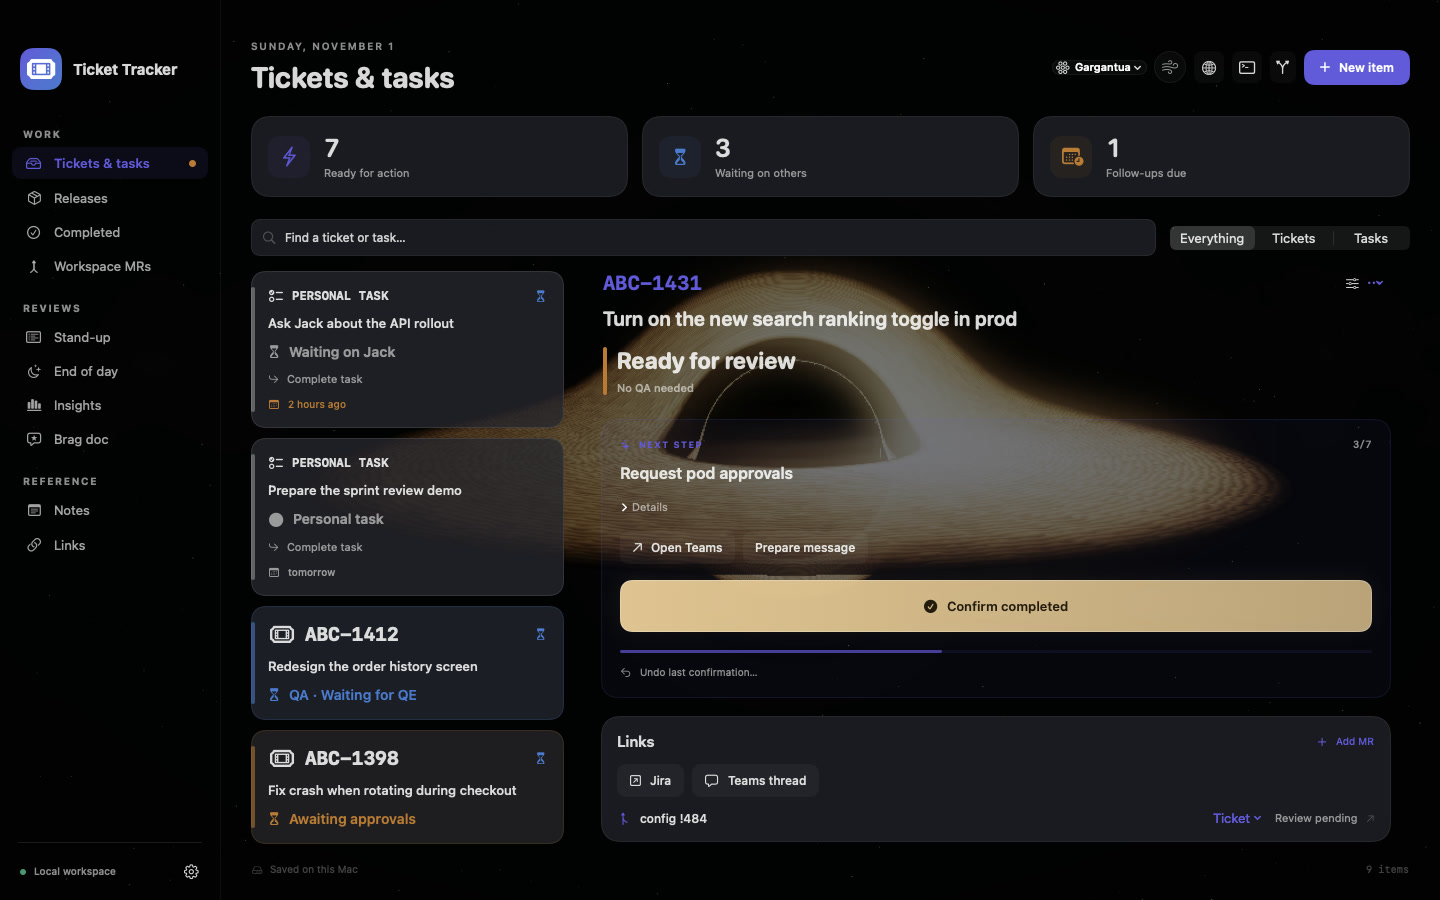
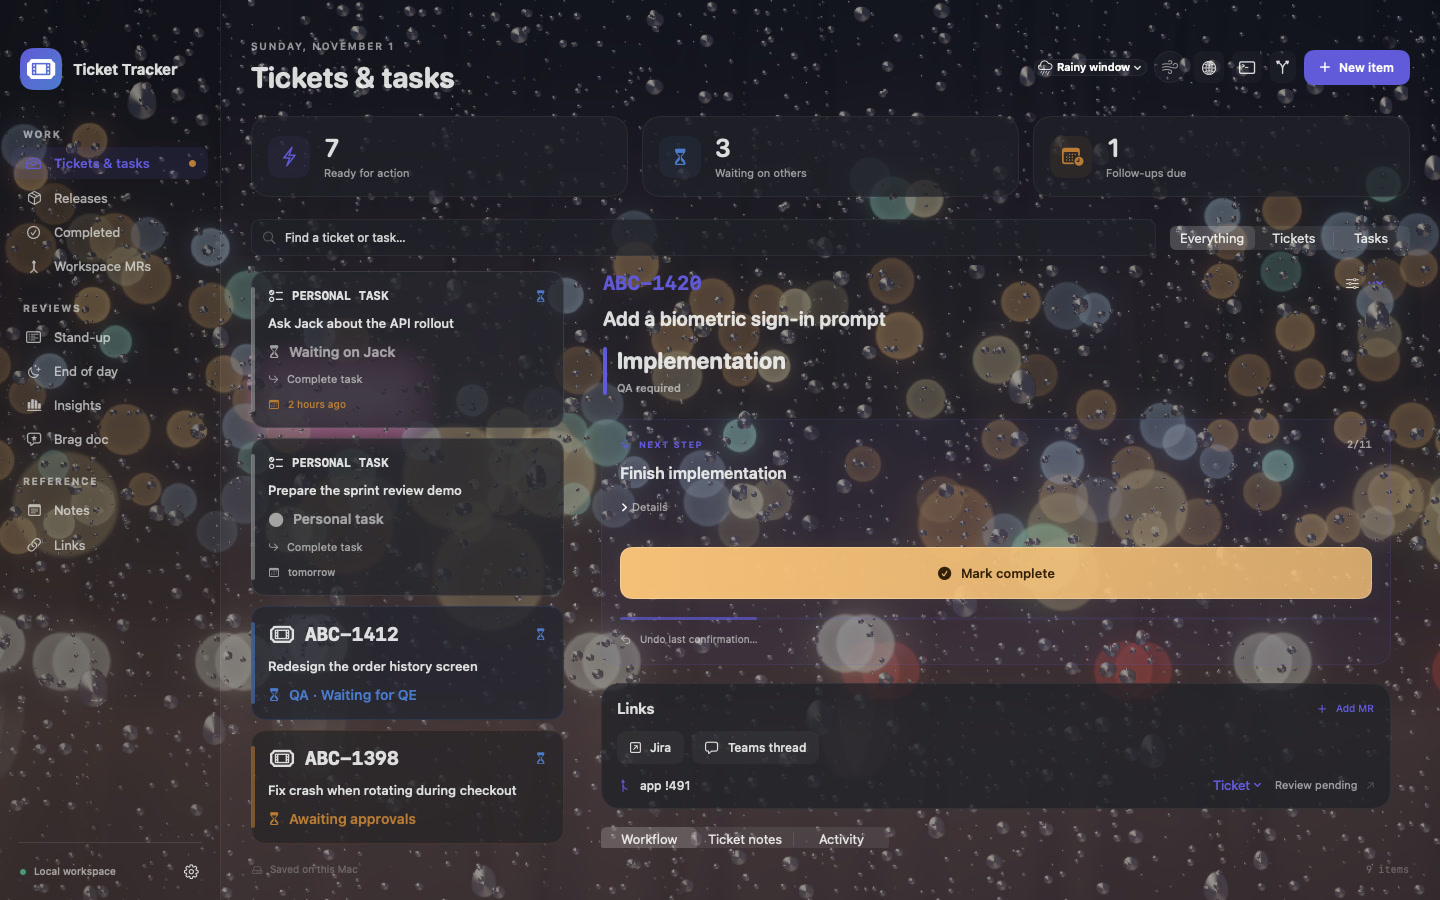
Use Rainy Window theme screenshot for Ticket Tracker main image

diff --git a/src/components/ProjectSection.tsx b/src/components/ProjectSection.tsx
@@ -1,6 +1,6 @@
 import Image from "next/image";
 import styles from "@/styles/Showcase.module.css";
-import React, { FC, useEffect, useState } from "react";
+import React, { FC } from "react";
 import { Project } from "@/data/projects";
 import { ArrowUpRight, Download, Github } from "./Icons";
 
@@ -28,23 +28,11 @@ const ProjectSection: FC<ProjectSectionProps> = ({ project, index, total }) => {
         description,
         techList,
         mainImageURL,
-        mainImages,
         featureList,
         primaryLink,
         githubLink,
         status,
     } = project;
-
-    const slides = mainImages && mainImages.length > 1 ? mainImages : null;
-    const [activeSlide, setActiveSlide] = useState(0);
-
-    useEffect(() => {
-        if (!slides) return;
-        const timer = window.setInterval(() => {
-            setActiveSlide((prev) => (prev + 1) % slides.length);
-        }, 5000);
-        return () => window.clearInterval(timer);
-    }, [slides]);
 
     return (
         <article
@@ -115,40 +103,15 @@ const ProjectSection: FC<ProjectSectionProps> = ({ project, index, total }) => {
                     <span />
                     <p>{frameLabel(project)}</p>
                 </div>
-                {slides ? (
-                    <div className={styles.mainImageStage}>
-                        {slides.map((src, slideIndex) => (
-                            <Image
-                                key={src}
-                                className={`${styles.mainSlide} ${
-                                    slideIndex === 0
-                                        ? styles.mainSlideBase
-                                        : styles.mainSlideOverlay
-                                } ${
-                                    slideIndex === activeSlide
-                                        ? styles.mainSlideActive
-                                        : ""
-                                }`}
-                                src={src}
-                                alt={`${title} screenshot ${slideIndex + 1}`}
-                                width={1600}
-                                height={1000}
-                                sizes="(max-width: 1200px) 100vw, 1150px"
-                                unoptimized={isAnimated(src)}
-                            />
-                        ))}
-                    </div>
-                ) : (
-                    <Image
-                        className={styles.mainImage}
-                        src={mainImageURL}
-                        alt={`${title} screenshot`}
-                        width={1600}
-                        height={1000}
-                        sizes="(max-width: 1200px) 100vw, 1150px"
-                        unoptimized={isAnimated(mainImageURL)}
-                    />
-                )}
+                <Image
+                    className={styles.mainImage}
+                    src={mainImageURL}
+                    alt={`${title} screenshot`}
+                    width={1600}
+                    height={1000}
+                    sizes="(max-width: 1200px) 100vw, 1150px"
+                    unoptimized={isAnimated(mainImageURL)}
+                />
             </figure>
 
             {featureList.length > 0 && (

diff --git a/src/data/projects.ts b/src/data/projects.ts
@@ -19,8 +19,6 @@ export interface Project {
     tileURL: string;
     // image (or gif) shown in the project's case study
     mainImageURL: string;
-    // optional list of images to auto-cycle through in the case study hero frame
-    mainImages?: string[];
     featureList: ProjectFeature[];
     primaryLink?: { label: string; href: string; external: boolean };
     githubLink: string;
@@ -152,14 +150,6 @@ export const projects: Project[] = [
         ],
         tileURL: "/images/ticket-tracker-tile.jpg",
         mainImageURL: "/images/ticket-tracker-main.jpg",
-        mainImages: [
-            "/images/ticket-tracker-tile.jpg",
-            "/images/ticket-tracker-main.jpg",
-            "/images/ticket-tracker-theme-bonsai.jpg",
-            "/images/ticket-tracker-theme-cabin.jpg",
-            "/images/ticket-tracker-theme-skyline.jpg",
-            "/images/ticket-tracker-theme-rain.jpg",
-        ],
         featureList: [
             {
                 title: "Custom Workflow Editor & Test Drive",

diff --git a/src/styles/Showcase.module.css b/src/styles/Showcase.module.css
@@ -368,38 +368,6 @@
     height: auto;
 }
 
-.mainImageStage {
-    position: relative;
-    width: 100%;
-    overflow: hidden;
-    background: var(--bg-elevated);
-}
-
-.mainSlide {
-    display: block;
-    width: 100%;
-    height: auto;
-    opacity: 0;
-    transition: opacity 0.9s cubic-bezier(0.22, 1, 0.36, 1);
-    will-change: opacity;
-}
-
-.mainSlideBase {
-    position: relative;
-}
-
-.mainSlideOverlay {
-    position: absolute;
-    inset: 0;
-    width: 100%;
-    height: 100%;
-    object-fit: cover;
-}
-
-.mainSlideActive {
-    opacity: 1;
-}
-
 /* features */
 
 .featureList {
